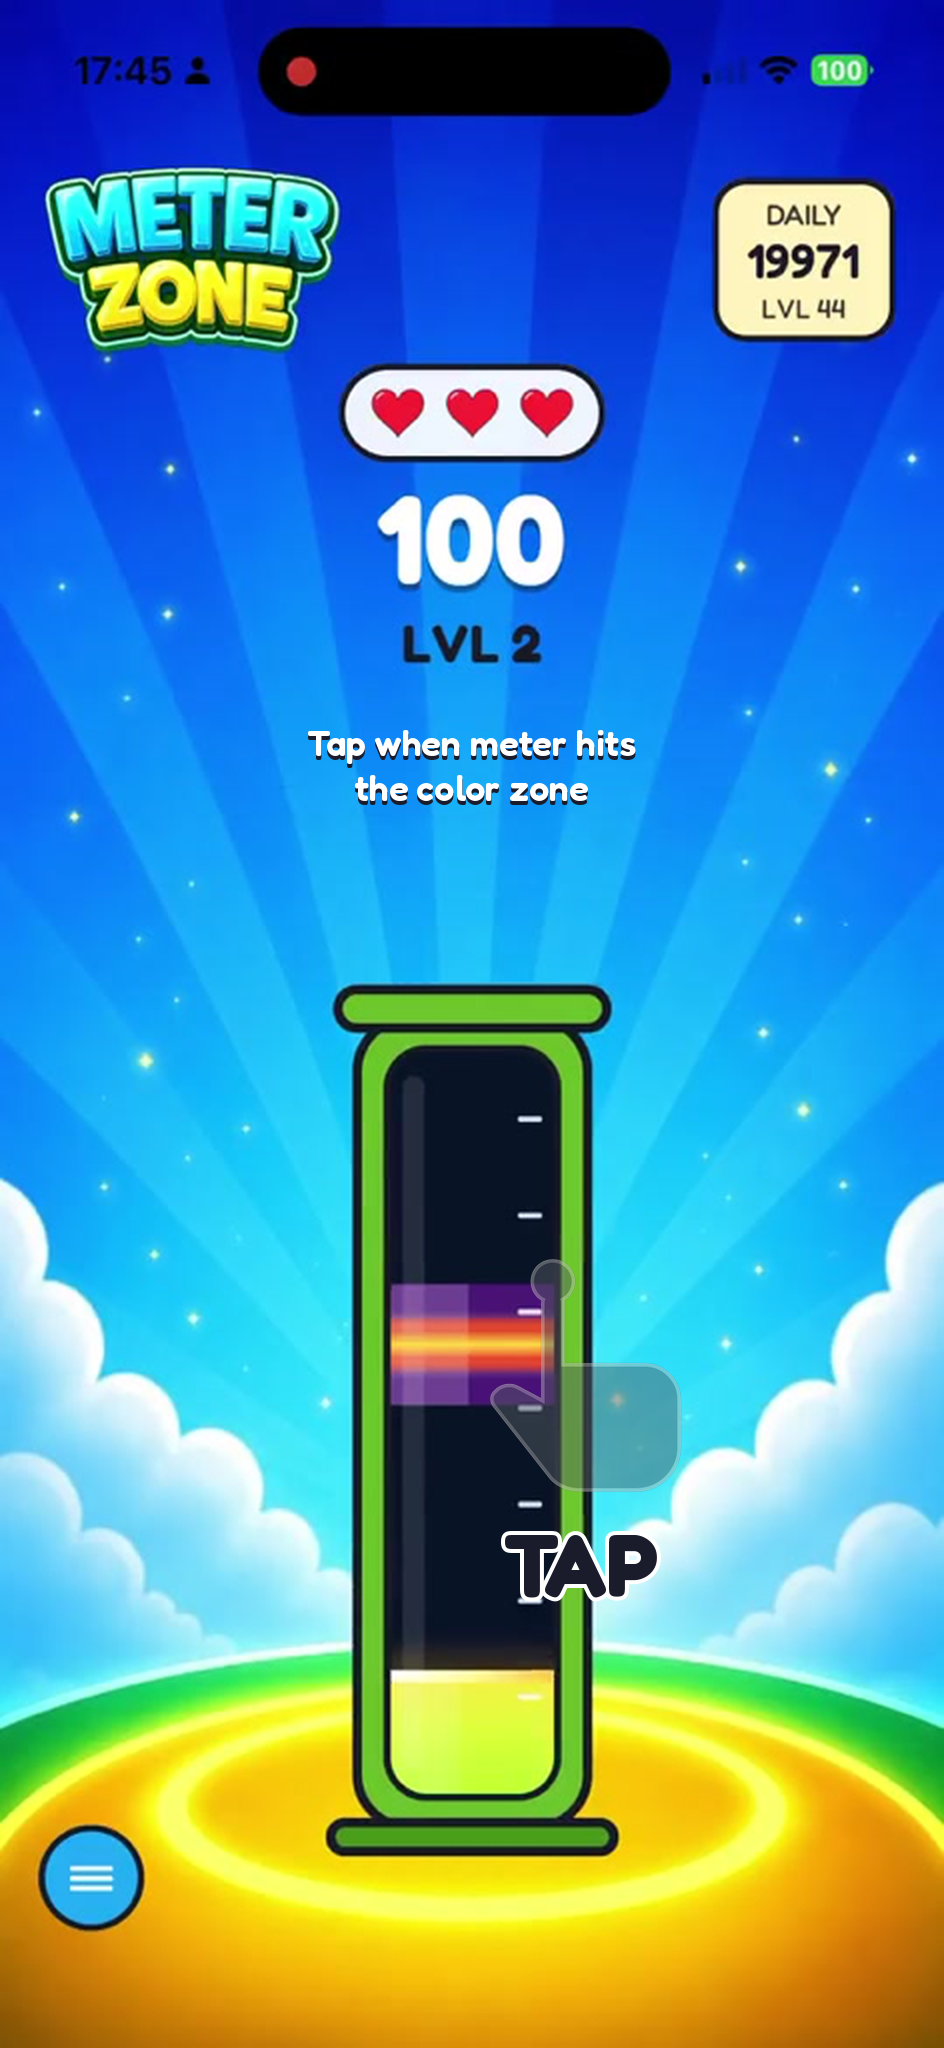
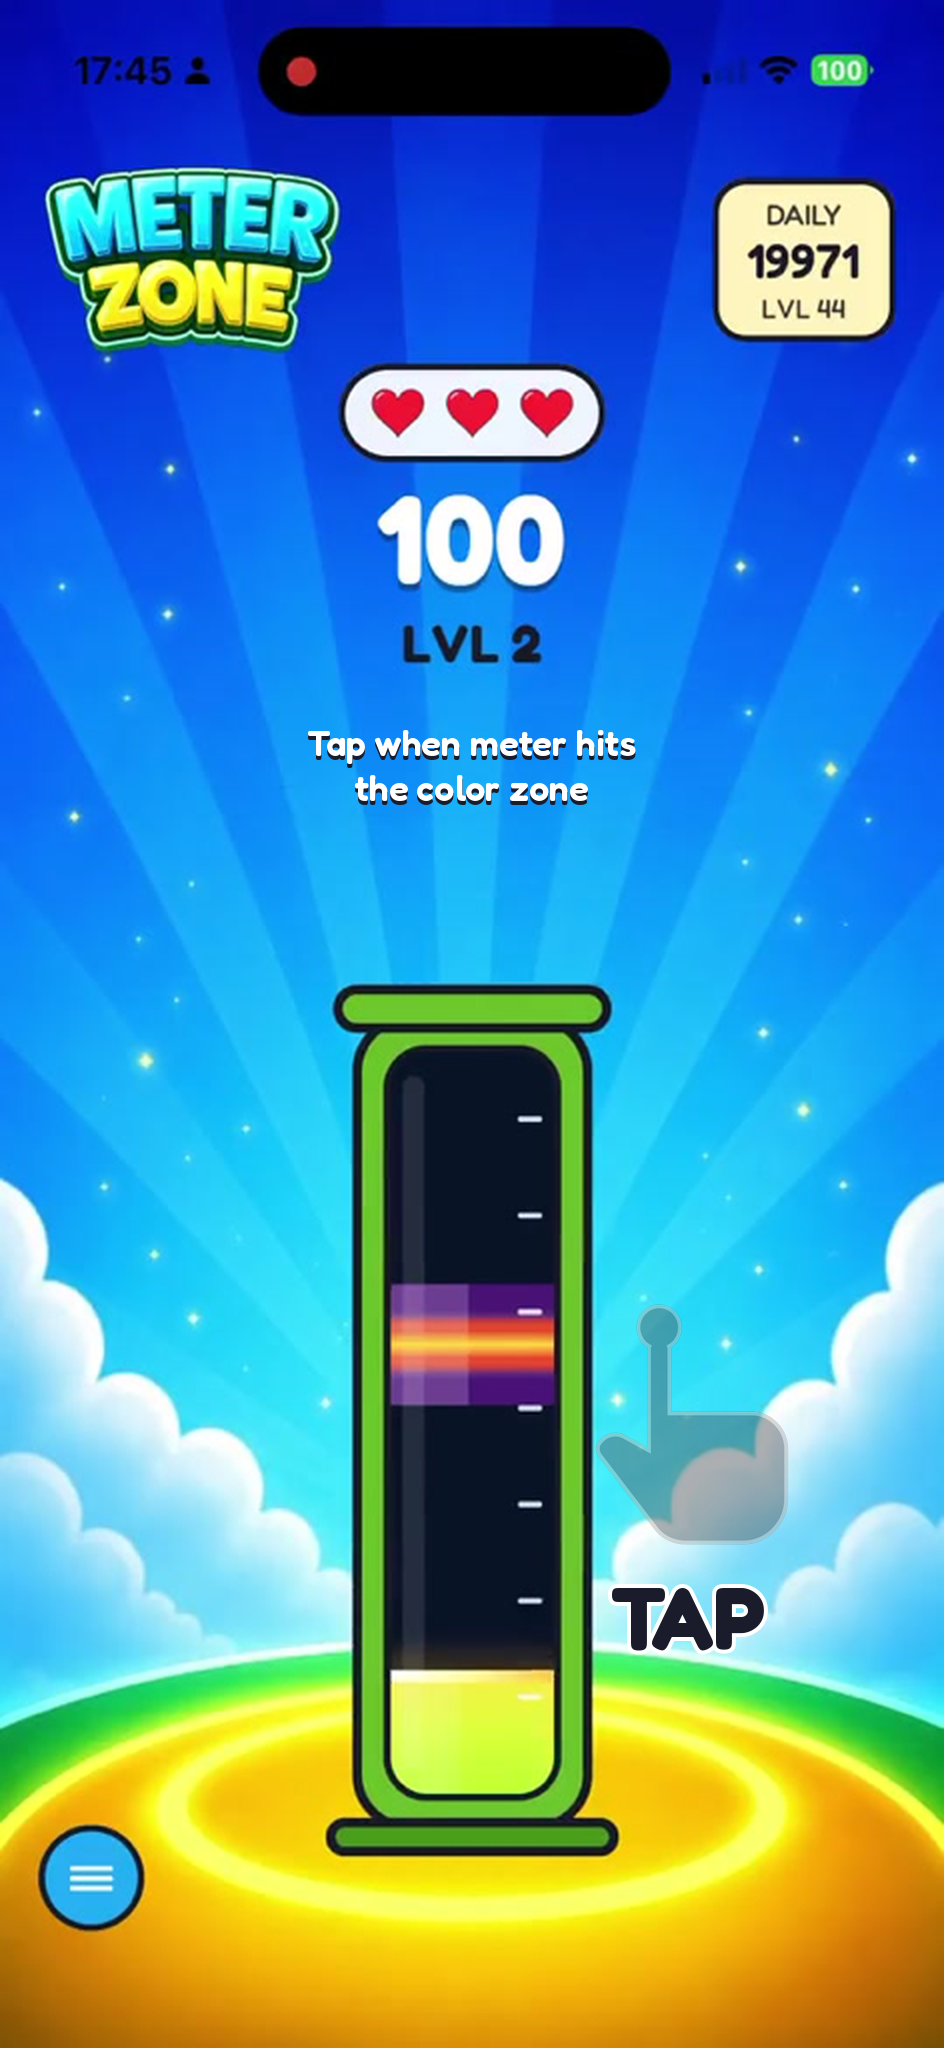
Align the TAP ball with Perfect, 32px off the meter
Pin the fingertip circle to the Perfect line and park it beside the
tube so the coach does not cover the play field.

Changed region(s): [[0.5222, 0.5938, 0.8602, 0.8125]]

diff --git a/src/game/TapHint.tsx b/src/game/TapHint.tsx
@@ -17,19 +17,31 @@ const TAP_HAND = require('../../assets/images/tap-hand.png');
 /** 30% transparent — the meter stays readable underneath. */
 const HAND_OPACITY = 0.7;
 
+/** Displayed size of the pointing-hand asset. */
+export const TAP_HAND_SIZE = { width: 92, height: 112 } as const;
+/**
+ * Tap-circle center in the PNG (finger + ball), as a fraction of displayed size.
+ * Measured from the baked asset: circle mid ≈ (151, 70) in a 430×512 image.
+ */
+const TAP_BALL = { x: 151 / 430, y: 70 / 512 } as const;
+/** Gap from the meter’s right edge to the tap-circle center. */
+export const TAP_BALL_GAP = 32;
+
 type Props = {
   visible: boolean;
-  /** Distance from the bottom of the screen to sit beside the meter. */
-  bottom: number;
-  /** Nudge right so the hand sits beside the meter, not on the zone. */
-  shift?: number;
+  /** Screen X of the tap-circle center. */
+  ballX: number;
+  /** Distance from the bottom of the screen to the tap-circle center. */
+  ballBottom: number;
 };
 
 /**
  * First-play coach: pointing hand + TAP, bouncing like a finger on the glass.
+ * The tap-circle sits on the Perfect line, 32px off the meter — taps work
+ * anywhere, so the hint stays out of the tube.
  * Decorative — taps fall through to the full-screen hit layer.
  */
-export function TapHint({ visible, bottom, shift = 108 }: Props) {
+export function TapHint({ visible, ballX, ballBottom }: Props) {
   const opacity = useSharedValue(0);
   const tap = useSharedValue(0);
 
@@ -56,30 +68,34 @@ export function TapHint({ visible, bottom, shift = 108 }: Props) {
     );
   }, [opacity, tap, visible]);
 
+  const originX = TAP_HAND_SIZE.width * TAP_BALL.x;
+
   const motionStyle = useAnimatedStyle(() => ({
     opacity: opacity.value,
-    transform: [
-      { translateY: tap.value * 16 },
-      { scale: 1 - tap.value * 0.06 },
-    ],
+    transform: [{ scale: 1 - tap.value * 0.08 }],
   }));
 
   if (!visible) return null;
 
+  const left = ballX - originX;
+  const bottom = ballBottom - TAP_HAND_SIZE.height * (1 - TAP_BALL.y);
+
   return (
     <View
-      style={[styles.wrap, { bottom }]}
+      style={[styles.wrap, { left, bottom }]}
       pointerEvents="none"
       accessibilityElementsHidden
     >
-      <Animated.View style={[styles.stack, { marginLeft: shift }, motionStyle]}>
+      <Animated.View style={[styles.stack, motionStyle]}>
         <Image
           source={TAP_HAND}
           style={styles.hand}
           contentFit="contain"
           cachePolicy="memory-disk"
         />
-        <TapLabel />
+        <View style={styles.labelSlot}>
+          <TapLabel />
+        </View>
       </Animated.View>
     </View>
   );
@@ -117,18 +133,26 @@ function TapLabel() {
 const styles = StyleSheet.create({
   wrap: {
     position: 'absolute',
-    left: 0,
-    right: 0,
-    alignItems: 'center',
+    width: TAP_HAND_SIZE.width,
+    height: TAP_HAND_SIZE.height,
     zIndex: 32,
   },
   stack: {
-    alignItems: 'center',
+    width: TAP_HAND_SIZE.width,
+    height: TAP_HAND_SIZE.height,
+    transformOrigin: `${TAP_HAND_SIZE.width * TAP_BALL.x}px ${TAP_HAND_SIZE.height * TAP_BALL.y}px`,
   },
   hand: {
-    width: 92,
-    height: 112,
+    width: TAP_HAND_SIZE.width,
+    height: TAP_HAND_SIZE.height,
     opacity: HAND_OPACITY,
+  },
+  labelSlot: {
+    position: 'absolute',
+    top: TAP_HAND_SIZE.height,
+    left: 0,
+    right: 0,
+    alignItems: 'center',
   },
   labelWrap: {
     marginTop: 2,

diff --git a/src/game/GameScreen.tsx b/src/game/GameScreen.tsx
@@ -30,7 +30,7 @@ import { MenuSheet } from '@/game/MenuSheet';
 import { MissBreak } from '@/game/MissBreak';
 import { PerfectSwoosh } from '@/game/PerfectSwoosh';
 import { ReviewPromptModal } from '@/game/ReviewPromptModal';
-import { TapHint } from '@/game/TapHint';
+import { TapHint, TAP_BALL_GAP } from '@/game/TapHint';
 import { VerticalMeter } from '@/game/VerticalMeter';
 import { formatScore } from '@/game/format';
 import { gameHaptics, setGameHapticsEnabled } from '@/game/haptics';
@@ -80,7 +80,12 @@ const FEEDBACK_EMAIL = 'hello@meterzone.net';
 /** Yellow pad surface in game-bg.png (fraction of image height from top). */
 const PAD_SURFACE_Y = 0.905;
 const METER_BASE_H = 340;
+const METER_BASE_W = 100;
 const METER_WRAP_EXTRA = 28;
+/** Inner tube is 20px shorter than the shell (VerticalMeter innerH). */
+const METER_INNER_INSET = 20;
+/** Shell padding + glass border under the fill, from the wrap bottom. */
+const METER_GLASS_BOTTOM = (scale: number) => 10 + 9 * scale + 3;
 
 /**
  * Run pacing, in ms. These are the knobs that decide how the game *feels*
@@ -1110,12 +1115,18 @@ export function GameScreen() {
     });
   const meterScale = round.meterScale;
   const meterWrapH = METER_BASE_H * meterScale + METER_WRAP_EXTRA;
+  const meterW = METER_BASE_W * meterScale;
+  const meterH = METER_BASE_H * meterScale;
+  const innerH = meterH - METER_INNER_INSET;
   // Pin meter base to the yellow pad in the background art
   const meterBottom = Math.max(
     insets.bottom + 4,
     windowH * (1 - PAD_SURFACE_Y),
   );
   const menuBottom = meterBottom + meterWrapH * 0.42;
+  const tapBallX = windowW / 2 + meterW / 2 + TAP_BALL_GAP;
+  const tapBallBottom =
+    meterBottom + METER_GLASS_BOTTOM(meterScale) + round.target * innerH;
   return (
     <View ref={shareRef} style={styles.root} collapsable={false}>
       <View style={styles.backdrop} pointerEvents="none">
@@ -1158,6 +1169,12 @@ export function GameScreen() {
           />
         </Animated.View>
       </View>
+
+      <TapHint
+        visible={showTapHint}
+        ballX={tapBallX}
+        ballBottom={tapBallBottom}
+      />
 
       <View
         style={[styles.content, { paddingTop: insets.top + 8 }]}
@@ -1341,12 +1358,6 @@ export function GameScreen() {
         </Animated.View>
 
         <CountdownBurst value={countdown} visible={phase === 'countdown'} />
-
-        <TapHint
-          visible={showTapHint}
-          bottom={meterBottom + meterWrapH * 0.22}
-          shift={Math.min(108, Math.max(56, windowW * 0.24))}
-        />
 
         {phase === 'gameover' ? (
           <View
